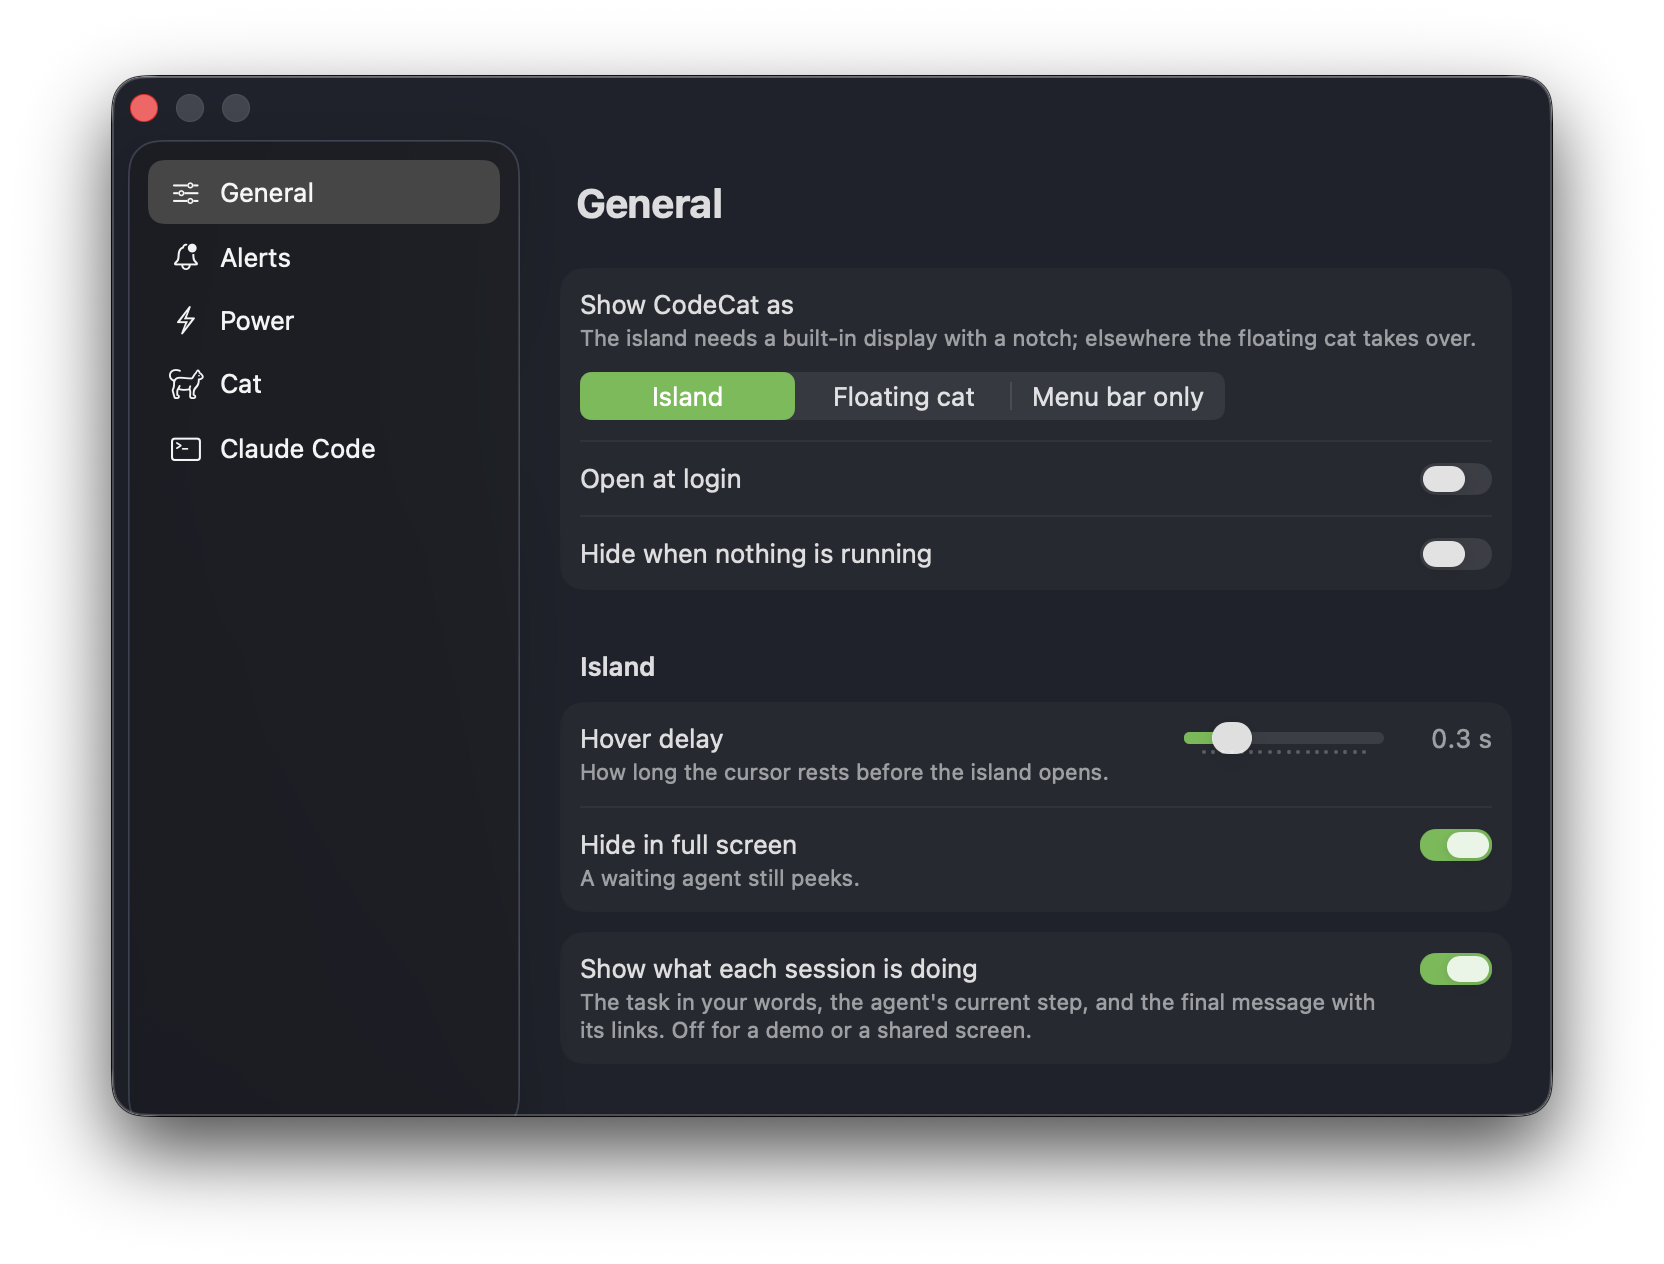
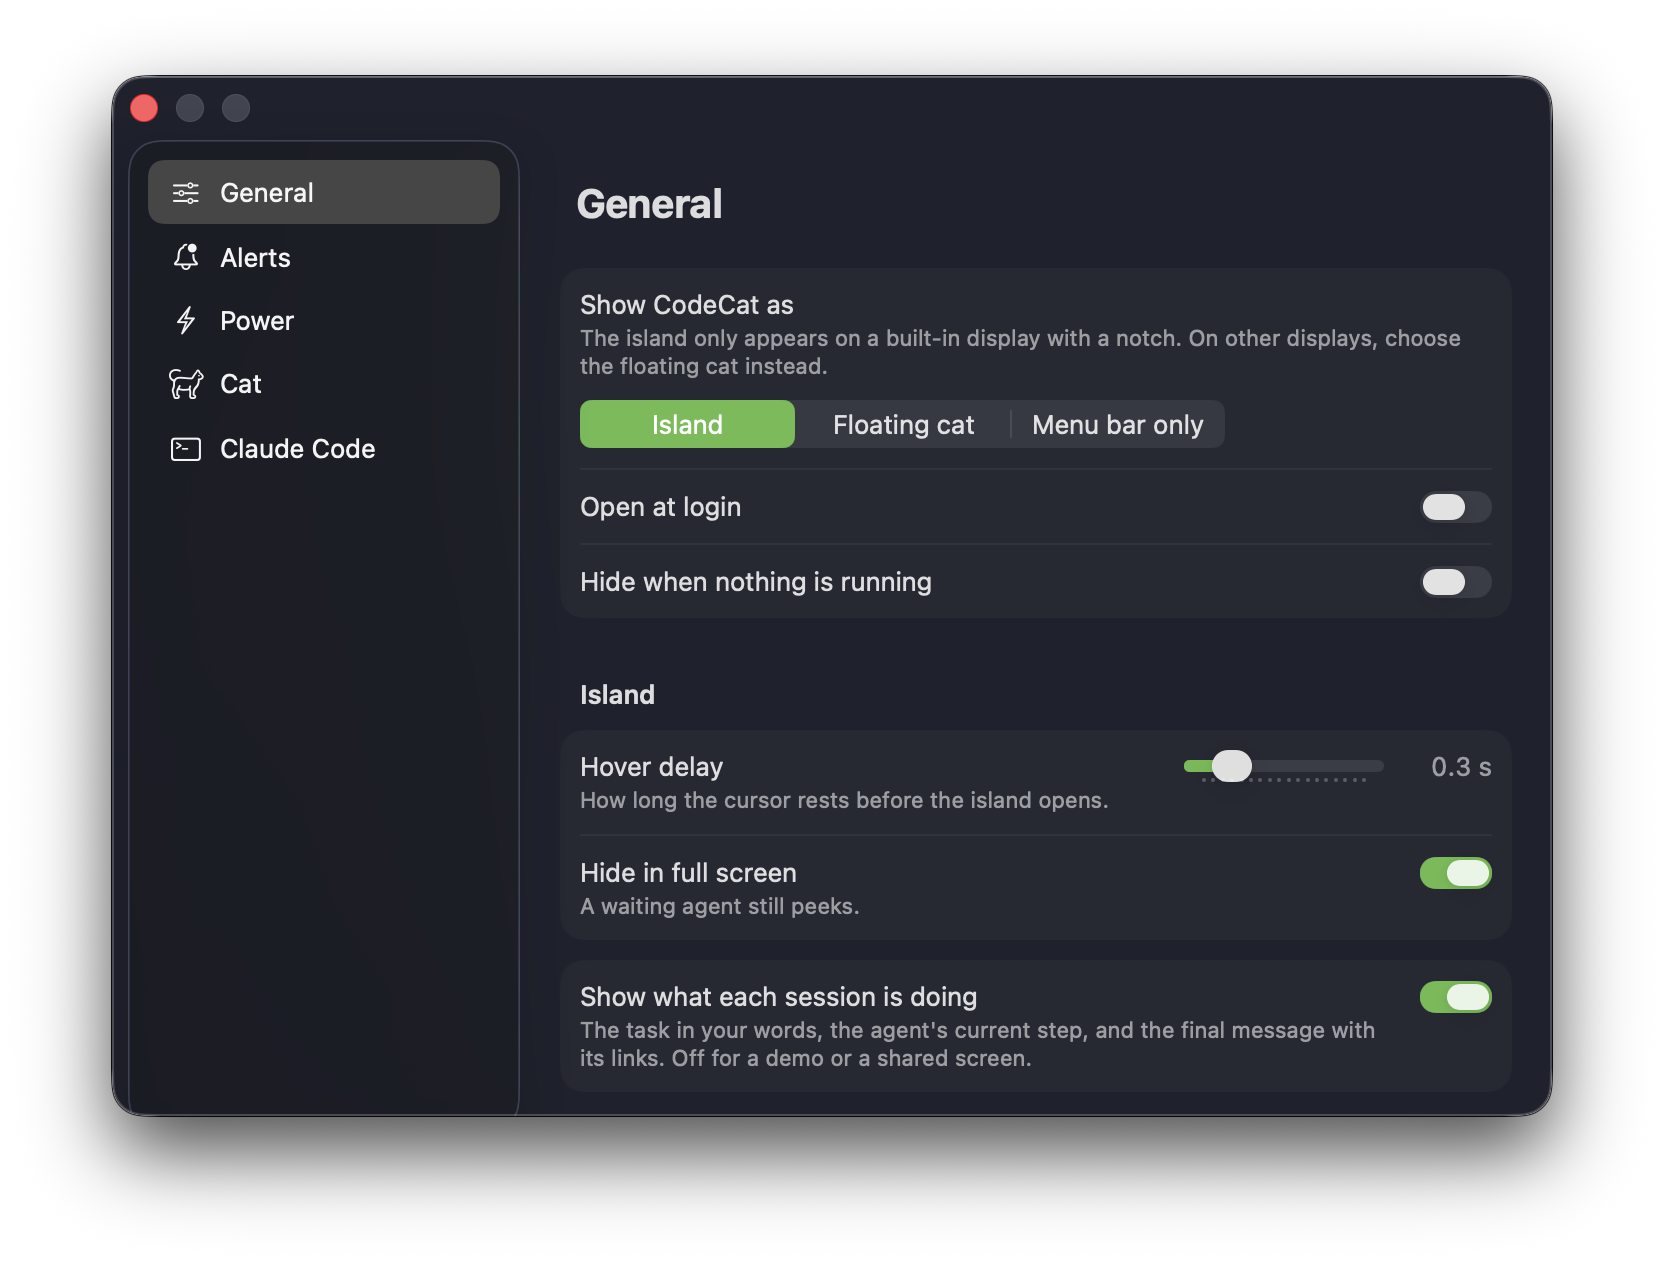
docs: README opens on the island, General reshot with its new help, a 0.5 social preview

diff --git a/README.md b/README.md
@@ -1,7 +1,10 @@
 # CodeCat 🐈
 
-A menu-bar cat that watches your Claude Code sessions, keeps the Mac awake while
-agents are working, and waves a paw when one of them needs you.
+A pixel cat in your MacBook's notch that watches your Claude Code sessions. It
+walks while agents work, the island around it glows in their colour, and it opens
+by itself when one of them needs you — with an Open button that takes you to that
+session's terminal. While anything is running, the Mac stays awake. No notch? The
+cat floats on a small capsule anywhere on screen instead.
 
 
 ![The island around the notch: the cat asleep, then walking while two agents work and the rim glows green, then sitting while the island opens itself with "codecat has a question for you" and an orange Open button, then stretching while it opens again with what the finished turns handed back](docs/media/demo.gif)
@@ -86,7 +89,7 @@ Requires macOS 14 or later. Apple silicon and Intel.
   <img src="docs/media/island-peek.png" alt="The island peeking: &quot;codecat wants to run npm test&quot; with an orange Open button and an orange line counting down the time left" width="501">
 </p>
 <p>
-  <img src="docs/media/island-list.png" alt="The open island: a card asking a question with an orange Open button, a working card, a card with its step &quot;Fixing the pagination cursor 2/5&quot; and a progress bar, a done card with chips for localhost:4321, PR #12 and Figma, two idle sessions folded into one line, and &quot;Mac stays awake — 2 agents working&quot;" width="501">
+  <img src="docs/media/island-list.png" alt="The open island: a card asking a question with an orange Open button, a working card, a card with its step &quot;Fixing the pagination cursor 2/5&quot; and a progress bar, a done card with chips for localhost:4321, PR #12 and Figma, &quot;2 open without a task&quot; folded into one line, and &quot;Mac stays awake — 2 agents working&quot;" width="501">
 </p>
 <p>
   <img src="docs/media/floating.png" alt="The floating cat sitting on its black capsule, which shows an orange dot and two green ones" width="141">
@@ -94,7 +97,7 @@ Requires macOS 14 or later. Apple silicon and Intel.
 </p>
 <p>
   <img src="docs/media/settings-general.png" alt="Settings, General: show CodeCat as Island, Floating cat or Menu bar only; open at login; hide when nothing is running; the hover delay; hide in full screen; show what each session is doing" width="416">
-  <img src="docs/media/settings-cat.png" alt="Settings, Cat: the chosen skin in its five states — asleep, working, waiting, done, crashed — and a grid of the eight skins" width="416">
+  <img src="docs/media/settings-cat.png" alt="Settings, Cat: the chosen skin in its five states — asleep, working, waiting, done, crashed — and a grid of the skins" width="416">
 </p>
 
 ## Pets in the Codex pet format
